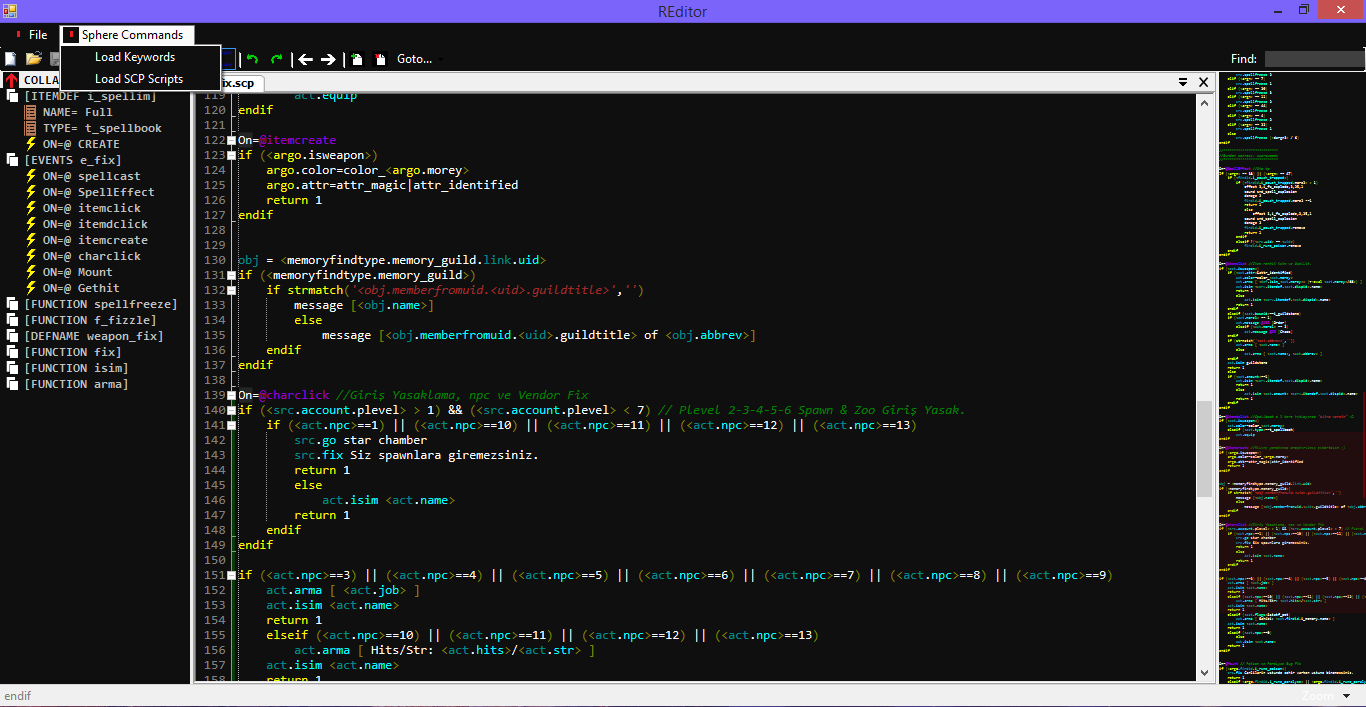
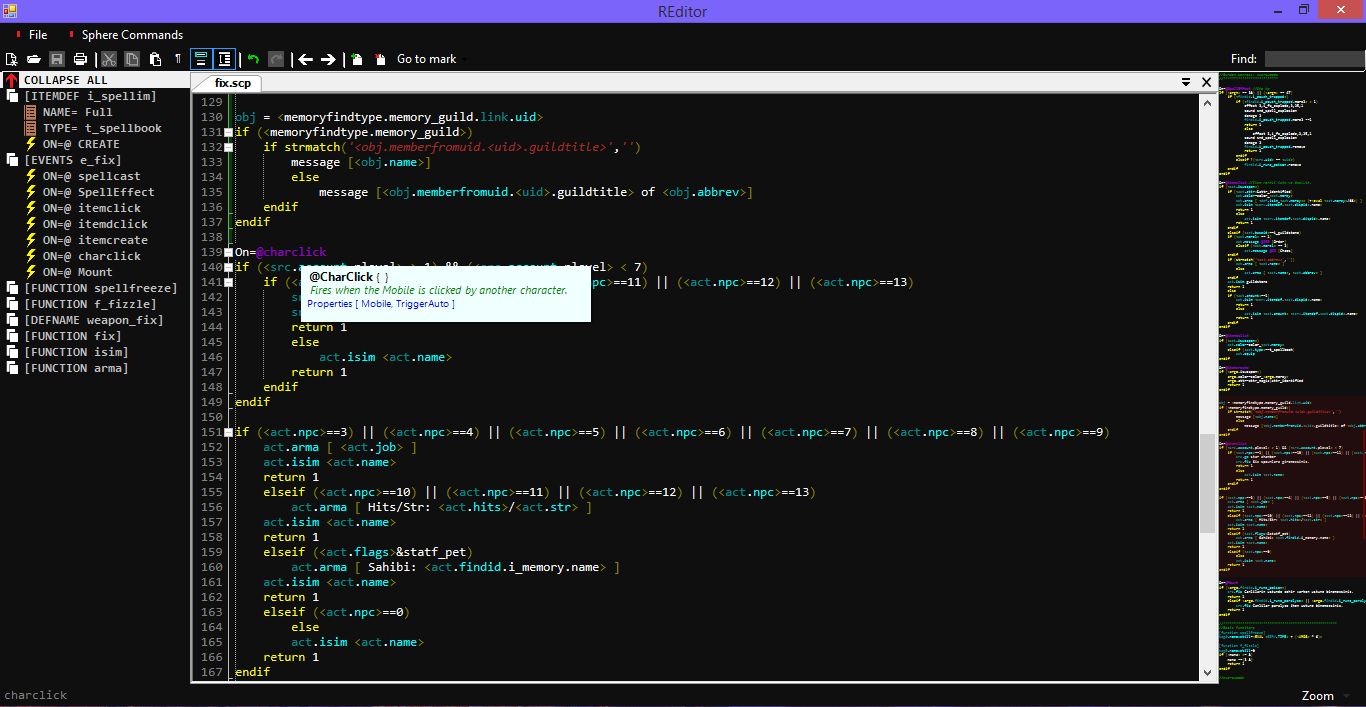
image updated

Changed region(s): [[0.0, 0.0311, 1.0, 1.0], [0.4305, 0.8713, 0.5842, 0.9024], [0.3075, 0.0622, 0.3382, 0.0934]]

diff --git a/REditor/REditor.Designer.cs b/REditor/REditor.Designer.cs
@@ -536,7 +536,7 @@ namespace SphereScp
             this.loadKeywordsToolStripMenuItem.BackColor = System.Drawing.Color.FromArgb(((int)(((byte)(15)))), ((int)(((byte)(15)))), ((int)(((byte)(15)))));
             this.loadKeywordsToolStripMenuItem.ForeColor = System.Drawing.Color.White;
             this.loadKeywordsToolStripMenuItem.Name = "loadKeywordsToolStripMenuItem";
-            this.loadKeywordsToolStripMenuItem.Size = new System.Drawing.Size(162, 22);
+            this.loadKeywordsToolStripMenuItem.Size = new System.Drawing.Size(204, 22);
             this.loadKeywordsToolStripMenuItem.Text = "Load Keywords";
             this.loadKeywordsToolStripMenuItem.Click += new System.EventHandler(this.loadKeywordsToolStripMenuItem_Click);
             this.loadKeywordsToolStripMenuItem.MouseLeave += new System.EventHandler(this.fileToolStripMenuItem_MouseLeave);
@@ -547,8 +547,8 @@ namespace SphereScp
             this.loadToolStripMenuItem.BackColor = System.Drawing.Color.FromArgb(((int)(((byte)(15)))), ((int)(((byte)(15)))), ((int)(((byte)(15)))));
             this.loadToolStripMenuItem.ForeColor = System.Drawing.Color.White;
             this.loadToolStripMenuItem.Name = "loadToolStripMenuItem";
-            this.loadToolStripMenuItem.Size = new System.Drawing.Size(162, 22);
-            this.loadToolStripMenuItem.Text = "Load SCP Scripts";
+            this.loadToolStripMenuItem.Size = new System.Drawing.Size(204, 22);
+            this.loadToolStripMenuItem.Text = "Load Spheresever Scripts";
             this.loadToolStripMenuItem.Click += new System.EventHandler(this.loadToolStripMenuItem_Click);
             this.loadToolStripMenuItem.MouseLeave += new System.EventHandler(this.fileToolStripMenuItem_MouseLeave);
             this.loadToolStripMenuItem.MouseHover += new System.EventHandler(this.fileToolStripMenuItem_MouseHover);
@@ -845,7 +845,6 @@ namespace SphereScp
             this.ForeColor = System.Drawing.Color.White;
             this.MainMenuStrip = this.msMain;
             this.Name = "MAIN";
-            this.Opacity = 0.99D;
             this.Text = "REditor";
             this.FormClosing += new System.Windows.Forms.FormClosingEventHandler(this.PowerfulCSharpEditor_FormClosing);
             this.Load += new System.EventHandler(this.REditor_Load);
